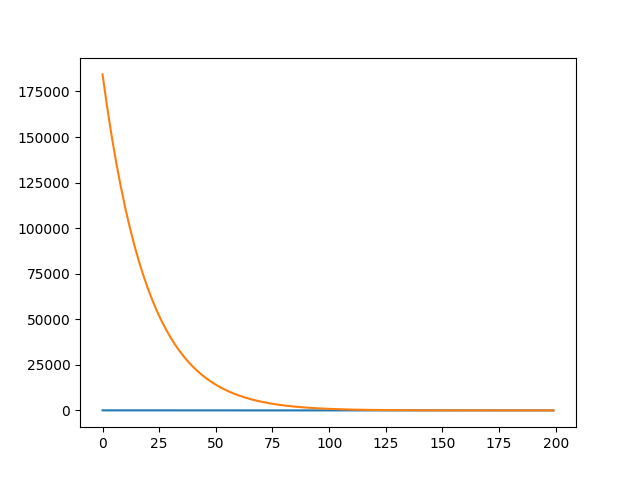
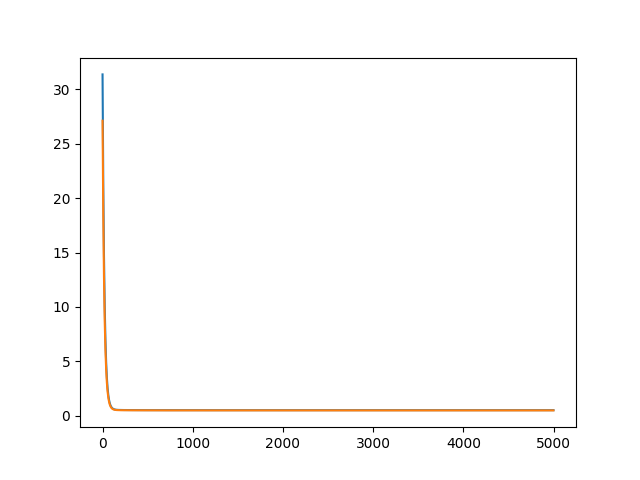
update admissions lr png

diff --git a/LR/admissionsLR.py b/LR/admissionsLR.py
@@ -15,10 +15,17 @@ for i, feature in enumerate(xtrain_T):
     std = np.std(feature)
     feature = (feature-mean)/std
     xtrain_T[i] = feature
-
 x_train = np.transpose(xtrain_T)
 
-lr = LogisticRegression(x_train, y_train, x_test, y_test, 200, 0.005)
+xtest_T = np.transpose(x_test)
+for i, feature in enumerate(xtest_T):
+    mean = np.mean(feature)
+    std = np.std(feature)
+    feature = (feature-mean)/std
+    xtest_T[i] = feature
+x_test = np.transpose(xtest_T)
+
+lr = LogisticRegression(x_train, y_train, x_test, y_test, 5000, 0.005)
 lr.call()
 loss, val_loss = lr.get_losses()
 
